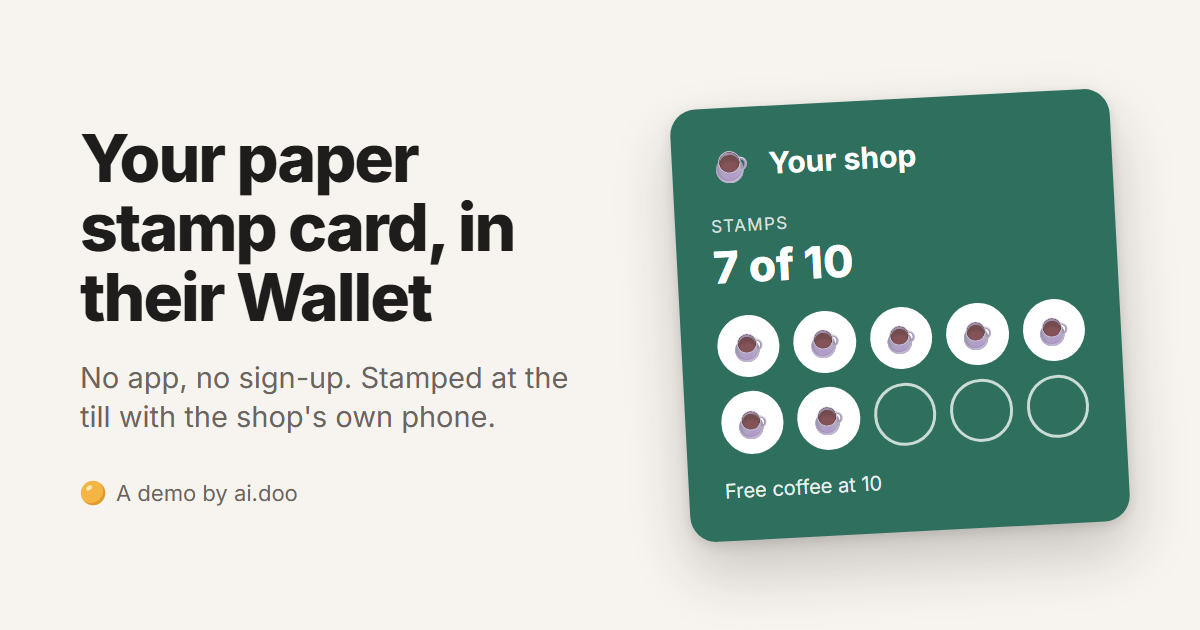
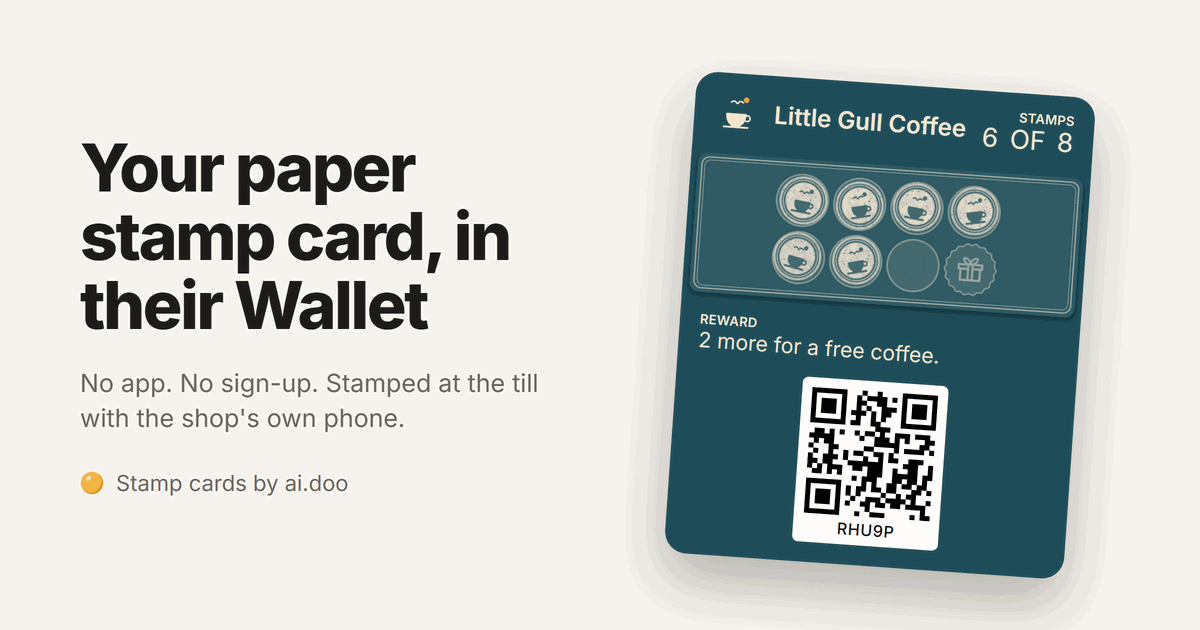
/stamps/: the share card and the homepage band show the printed pass
One internal page, internal/og-card/stamps.html, draws Little Gull's pass at
6 of 8 with printed.js. Its screenshots are the new stamps/og.png (the whole
pass, "Stamp cards by ai.doo", no demo line; ?v=2 so shares refetch it) and
images/stamps-pass.webp, which takes the place of the band's CSS dots. The
band's words don't change. Tests pin the band's image and the card's size.

diff --git a/internal/og-card/stamps.html b/internal/og-card/stamps.html
@@ -1,0 +1,96 @@
+<!doctype html>
+<!-- The source of /stamps/og.png, the 1200x630 card shown when a link to /stamps/ is shared, and
+     of images/stamps-pass.webp, the pass on the homepage's stamp card band. Link previews run no
+     script, so it is the same card for every shop: Little Gull Coffee at 6 of 8, the pass the
+     plain /stamps/ page shows (printed.js draws the strip, as on the page and the live pass).
+     To redraw them: serve the repo root and screenshot, at device scale 2,
+       this page at 1200x630, scaled to 1200x630 and reduced to a 256-colour PNG (under 300KB,
+         or WhatsApp drops the preview), as stamps/og.png;
+       this page's #pass at 440x520 on a clear background (no QR: the band is about the stamps), cropped to the pass and scaled to 560
+       wide, as images/stamps-pass.webp (quality 88).
+     Bump ?v= on the og:image and the band's img so shares and browsers refetch them. -->
+<meta charset="utf-8"><title>Stamps share card</title>
+<style>
+@font-face{font-family:Inter;src:url(../../fonts/inter-latin.woff2);font-weight:100 900}
+*{box-sizing:border-box}
+html,body{margin:0;width:1200px;height:630px;overflow:hidden;background:#f7f4ef;color:#1f1d1b;font-family:Inter,sans-serif}
+.card{position:relative;width:1200px;height:630px;padding:0 0 0 80px;display:flex;flex-direction:column;justify-content:center}
+h1{margin:0;width:520px;font:800 66px/1.04 Inter;letter-spacing:-.035em}
+p{margin:26px 0 0;width:500px;font-size:25px;line-height:1.4;color:#6b655e}
+.by{margin-top:34px;font-size:22px;color:#6b655e;display:flex;align-items:center;gap:12px}
+.by i{width:24px;height:24px;background:url(../../favicon.svg) center/contain no-repeat}
+.hold{position:absolute;left:680px;top:84px;transform:rotate(4deg)}
+
+/* The pass, as /stamps/ lays it out, at 400 wide */
+.pass{width:400px;background:#1f4e5a;color:#f3e6cf;border-radius:22px;padding:16px 0 20px;box-shadow:0 26px 56px rgba(31,29,27,.3)}
+.top{display:flex;align-items:center;gap:14px;padding:0 20px 12px}
+.mark{width:46px;height:46px;flex:none}
+.mark img{width:100%;height:100%;display:block;border-radius:50%}
+.top b{flex:1;font-size:24px;font-weight:600;line-height:1.15}
+.count{text-align:right;line-height:1.1}
+small{display:block;font-size:13px;font-weight:600;letter-spacing:.02em;text-transform:uppercase}
+.count span{font-size:26px;text-transform:uppercase;word-spacing:.18em}
+.strip{display:block;width:400px;height:153.6px}
+.field{padding:12px 20px 0}
+.field span{font-size:21px;line-height:1.25}
+.code{background:#fff;color:#111;border-radius:6px;padding:10px 10px 6px;margin:16px auto 0;width:146px;text-align:center;font:500 16px/1.2 Inter;letter-spacing:.04em}
+.code svg{width:126px;height:126px;display:block;margin:0 auto 4px}
+
+/* #pass: the pass alone, for the homepage band */
+html.solo,.solo body{width:440px;height:520px;background:transparent}
+.solo .card>:not(.hold){display:none}
+.solo .card{width:440px;height:520px;padding:0}
+.solo .hold{left:20px;top:8px;transform:none}
+.solo .pass{box-shadow:none}
+.solo .code{display:none}
+</style>
+<div class="card">
+  <h1>Your paper stamp card, in their Wallet</h1>
+  <p>No app. No sign-up. Stamped at the till with the shop's own phone.</p>
+  <div class="by"><i></i>Stamp cards by ai.doo</div>
+  <div class="hold">
+    <div class="pass">
+      <div class="top"><span class="mark"><img id="logo" src="../../stamps/little-gull.png" alt=""></span><b>Little Gull Coffee</b>
+        <div class="count"><small>Stamps</small><span>6 of 8</span></div></div>
+      <canvas class="strip" id="strip" width="750" height="288"></canvas>
+      <div class="field"><small>Reward</small><span>2 more for a free coffee.</span></div>
+      <div class="code"><svg id="qr" viewBox="0 0 25 25"></svg>RHU9P</div>
+    </div>
+  </div>
+</div>
+<script src="../../stamps/printed.js"></script>
+<script>
+  if (location.hash === "#pass") document.documentElement.className = "solo";
+  // The same made-up QR as the page's (stamps/index.html's drawQr)
+  (function (svg, seed) {
+    var n = 25, s = 0, cells = [];
+    for (var i = 0; i < seed.length; i++) s = (s * 31 + seed.charCodeAt(i)) % 233280;
+    var rnd = function () { return (s = (s * 9301 + 49297) % 233280) / 233280; };
+    var finder = function (x, y) {
+      return [[0, 0], [n - 7, 0], [0, n - 7]].some(function (o) {
+        return x >= o[0] - 1 && x <= o[0] + 7 && y >= o[1] - 1 && y <= o[1] + 7;
+      });
+    };
+    for (var y = 0; y < n; y++) for (var x = 0; x < n; x++)
+      if (!finder(x, y) && rnd() > 0.52) cells.push("M" + x + " " + y + "h1v1h-1z");
+    [[0, 0], [n - 7, 0], [0, n - 7]].forEach(function (o) {
+      cells.push("M" + o[0] + " " + o[1] + "h7v7h-7zM" + (o[0] + 1) + " " + (o[1] + 1) + "v5h5v-5z" +
+        "M" + (o[0] + 2) + " " + (o[1] + 2) + "h3v3h-3z");
+    });
+    svg.innerHTML = '<rect width="25" height="25" fill="#fff"/><path fill="#000" fill-rule="evenodd" d="' + cells.join("") + '"/>';
+  })(document.getElementById("qr"), "RHU9P");
+
+  var logo = document.getElementById("logo");
+  function draw() {
+    var W = PrintedCard.STRIP_WIDTH, H = PrintedCard.STRIP_HEIGHT;
+    var out = PrintedCard.render({ bg: "#1f4e5a", fg: "#f3e6cf", required: 8, count: 6, logoKey: "gull",
+      logo: function (n) {
+        var c = document.createElement("canvas"), g = c.getContext("2d");
+        c.width = c.height = n; g.drawImage(logo, 0, 0, n, n);
+        return g.getImageData(0, 0, n, n).data;
+      } }, W, H);
+    document.getElementById("strip").getContext("2d").putImageData(new ImageData(out.data, W, H), 0, 0);
+    document.body.dataset.ready = "1";
+  }
+  if (logo.complete) draw(); else logo.onload = draw;
+</script>

diff --git a/index.html b/index.html
@@ -170,12 +170,8 @@
     .processSteps .step p{font-size:14.5px}
     /* The stamp card: a quiet band in the steps' colour, so the promo band stays the bright one (D-040) */
     .stampBand{display:grid;grid-template-columns:1.3fr auto;gap:40px;align-items:center;padding:56px;border-radius:40px;background:var(--card)}
-    .stampCard{width:280px;padding:22px 22px 20px;border-radius:18px;background:#1f4a3f;color:#fff}
-    .stampCard b{display:block;margin-bottom:12px;font-size:15px;font-weight:800}
-    .stampDots{display:grid;grid-template-columns:repeat(5,1fr);gap:9px}
-    .stampDots i{aspect-ratio:1;border-radius:50%;border:2px solid #7fd1b0;background:#7fd1b0}
-    .stampDots i.off{border-color:rgba(255,255,255,.3);background:none}
-    .stampCard small{display:block;margin-top:12px;font-size:12.5px;opacity:.85}
+    /* the plain /stamps/ page's pass, drawn by printed.js (internal/og-card/stamps.html) */
+    .stampCard{display:block;width:300px;height:auto}
     .alsoLine{padding:0 0 56px}
     .alsoLine p{margin:0;max-width:72ch;color:var(--muted);font-size:14px;line-height:1.7}
     .alsoLine a{color:var(--suite);text-decoration:underline;text-decoration-thickness:1px;text-underline-offset:3px}
@@ -186,7 +182,7 @@
       .workBody{padding:20px 22px 22px}
       .promoBand{grid-template-columns:1fr;gap:20px;padding:32px 24px;border-radius:28px}
       .stampBand{grid-template-columns:1fr;gap:24px;padding:32px 24px;border-radius:28px}
-      .stampCard{width:100%;max-width:280px}
+      .stampCard{width:100%;max-width:300px}
       .processSteps{grid-template-columns:1fr;gap:12px}
       .processSteps .step{padding:20px 22px 22px;border-left:0}
     }
@@ -450,11 +446,7 @@
           <a class="btn primary" href="stamps/" data-umami-event="stamps-demo-home">See it work</a>
         </div>
       </div>
-      <div class="stampCard" aria-hidden="true">
-        <b>Your shop</b>
-        <div class="stampDots"><i></i><i></i><i></i><i></i><i></i><i></i><i></i><i class="off"></i><i class="off"></i><i class="off"></i></div>
-        <small>7 of 10. 3 more for a free coffee.</small>
-      </div>
+      <img class="stampCard" src="images/stamps-pass.webp?v=1" width="560" height="422" alt="">
     </div>
   </section>
 

diff --git a/stamps/index.html b/stamps/index.html
@@ -14,11 +14,11 @@
   <meta property="og:description" content="No app, no sign-up. Stamped at the till with the shop's own phone, and set up in about a minute.">
   <meta property="og:url" content="https://aidoo.biz/stamps/">
   <meta property="og:site_name" content="ai.doo">
-  <meta property="og:image" content="https://aidoo.biz/stamps/og.png">
+  <meta property="og:image" content="https://aidoo.biz/stamps/og.png?v=2">
   <meta property="og:image:width" content="1200">
   <meta property="og:image:height" content="630">
   <meta name="twitter:card" content="summary_large_image">
-  <meta name="twitter:image" content="https://aidoo.biz/stamps/og.png">
+  <meta name="twitter:image" content="https://aidoo.biz/stamps/og.png?v=2">
   <link rel="icon" href="../favicon.svg" type="image/svg+xml" sizes="any">
   <style>
     /* The stamp card, playing itself in a loop on one phone: sign, page, Wallet, the staff

diff --git a/tests/test_stamps_demo.py b/tests/test_stamps_demo.py
@@ -227,6 +227,8 @@ def test_deploy_serves_the_demo():
         "stamps/card.js",
         "stamps/printed.js",
         "stamps/little-gull.png",
+        "stamps/og.png",
+        "images/stamps-pass.webp",
     ):
         assert rel in served, rel
 
@@ -239,6 +241,9 @@ def test_the_homepage_offers_the_stamp_card_in_a_quiet_band():
     assert html.index('id="process"') < start < html.index('id="also"')
     assert 'href="stamps/"' in band and "data-tint=" in band
     assert "data-umami-event=" in band
+    # the plain page's own pass, drawn by printed.js (internal/og-card/stamps.html), not a sketch of one
+    assert 'src="images/stamps-pass.webp' in band and 'alt=""' in band
+    assert "stampDots" not in html
     # the demo plays itself; the Play button offers only games
     assert "data-play" not in band
     text = re.sub(r"<[^>]+>", " ", band)
@@ -248,3 +253,17 @@ def test_the_homepage_offers_the_stamp_card_in_a_quiet_band():
         assert word not in text, word
     # the page's one bright band stays the promo game's: no gradient here
     assert "gradient" not in band
+
+
+def test_the_share_card_fits_a_link_preview():
+    # 1200x630, and under WhatsApp's ~300KB or it shows the link bare; versioned so shares refetch it
+    png = (REPO_ROOT / "stamps" / "og.png").read_bytes()
+    assert png[:4] == bytes([0x89]) + b"PNG"
+    assert (int.from_bytes(png[16:20], "big"), int.from_bytes(png[20:24], "big")) == (
+        1200,
+        630,
+    )
+    assert len(png) < 300_000
+    assert 'og:image" content="https://aidoo.biz/stamps/og.png?v=' in _text(
+        "stamps/index.html"
+    )

diff --git a/docs/CURRENT_SPRINT.md b/docs/CURRENT_SPRINT.md
@@ -46,7 +46,7 @@ Held until then: new titles, the rest of the site rework (P2.1b), and suite road
 
 ### 2026-11-02
 
-- **`/stamps/` new look, in progress (`item/stamps-printed-look`, worktree `C:\dev\worktrees\ai.doo-stamps-look`; owner, in a plain chat; no roadmap row).** Done: `stamps/printed.js`, a canvas port of loyalty's `render.py` (same constants, poses and layers: dark stock, grain, double rule, printed boxes, the gift badge, rubber stamps with the logo's bare highlight, foil and glow at full; API `PrintedCard.render({bg, fg, required, count, logo(n), logoKey, wordmark}, width)`, 150 to 270ms per 1032x812, so cache by count), matched by eye to loyalty's `docs/design/0004-printed-card/build_demo_0_4_10.png`. The price under the pilot line (D-037; D-040's update), gates PASS. **Owner's call:** the plain page shows a Little Gull Coffee pass like the real one (`C:\tmp\stamps-footage\pass-6of8.webp`; art in `C:\tmp\little-gull`, ground `#1F4E5A`, text `#F3E6CF`, 8 stamps, "A free coffee"): logo and name top left, "STAMPS n OF 8" top right, the printed strip (two rows of four, gift last), a REWARD line ("2 more for a free coffee."), the QR with its code. A shop's `?shop=` link keeps its own branding. Done since: (1) printed.js wired into `index.html` at Apple's strip (750x288, no wordmark header, as `render.header`; `render(o, w, h)` and `lit: false`), each new stamp landing over the old card, the lit card fading in after the last; the plain page is Little Gull (logo `stamps/little-gull.png`, 8 stamps), a shop's link stamps its icon as a solid shape; (3) `fg` in `card.js` (3:1 against the card or ink; the plain page's cream); (2) the staff phone as the live scanner: the camera (aim corners, Type code, Shop), the +N sheet, the green done screen, "Free item given" / "0 of N now"; visits 1, 2, 4 (then 1 for 8 stamps), `demoBeats()` in step; (4) cut 6's words: the captions ("Customers scan the sign by your till", "One tap and the card's in their Wallet", "Staff scan it with the shop's own phone", "The stamp lands on their phone"; two lines kept free under 440px so Pause doesn't jump), "Setting up your shop is simple: name it, add your logo, print the QR. About a minute." and "We're a new studio on the Isle of Man, looking for our first few shops." at the end; no demo framing (title "Stamp cards | ai.doo", footer "Stamp cards by ai.doo.", a test keeps "demo" out of the page's words); the lock-screen note kept, in the live Apple pass's own words (`changeMessage` "%@ stamps": "3 of 8 stamps", "0 of 8 stamps" after the free item), since Apple's push is followed by a pass fetch (loyalty P1.8) and Google's note arrived on the OnePlus; the iPhone's buzz itself is still unfilmed. Still to do: (5) the homepage band's drawn card and `stamps/og.png` in the new look; (6) a draft PR with before/after shots at 0, part and full. Gelatory sees the page before anything posts, and it stays at exactly `aidoo.biz/stamps`.
+- **`/stamps/` new look, in progress (`item/stamps-printed-look`, worktree `C:\dev\worktrees\ai.doo-stamps-look`; owner, in a plain chat; no roadmap row).** Done: `stamps/printed.js`, a canvas port of loyalty's `render.py` (same constants, poses and layers: dark stock, grain, double rule, printed boxes, the gift badge, rubber stamps with the logo's bare highlight, foil and glow at full; API `PrintedCard.render({bg, fg, required, count, logo(n), logoKey, wordmark}, width)`, 150 to 270ms per 1032x812, so cache by count), matched by eye to loyalty's `docs/design/0004-printed-card/build_demo_0_4_10.png`. The price under the pilot line (D-037; D-040's update), gates PASS. **Owner's call:** the plain page shows a Little Gull Coffee pass like the real one (`C:\tmp\stamps-footage\pass-6of8.webp`; art in `C:\tmp\little-gull`, ground `#1F4E5A`, text `#F3E6CF`, 8 stamps, "A free coffee"): logo and name top left, "STAMPS n OF 8" top right, the printed strip (two rows of four, gift last), a REWARD line ("2 more for a free coffee."), the QR with its code. A shop's `?shop=` link keeps its own branding. Done since: (1) printed.js wired into `index.html` at Apple's strip (750x288, no wordmark header, as `render.header`; `render(o, w, h)` and `lit: false`), each new stamp landing over the old card, the lit card fading in after the last; the plain page is Little Gull (logo `stamps/little-gull.png`, 8 stamps), a shop's link stamps its icon as a solid shape; (3) `fg` in `card.js` (3:1 against the card or ink; the plain page's cream); (2) the staff phone as the live scanner: the camera (aim corners, Type code, Shop), the +N sheet, the green done screen, "Free item given" / "0 of N now"; visits 1, 2, 4 (then 1 for 8 stamps), `demoBeats()` in step; (4) cut 6's words: the captions ("Customers scan the sign by your till", "One tap and the card's in their Wallet", "Staff scan it with the shop's own phone", "The stamp lands on their phone"; two lines kept free under 440px so Pause doesn't jump), "Setting up your shop is simple: name it, add your logo, print the QR. About a minute." and "We're a new studio on the Isle of Man, looking for our first few shops." at the end; no demo framing (title "Stamp cards | ai.doo", footer "Stamp cards by ai.doo.", a test keeps "demo" out of the page's words); the lock-screen note kept, in the live Apple pass's own words (`changeMessage` "%@ stamps": "3 of 8 stamps", "0 of 8 stamps" after the free item), since Apple's push is followed by a pass fetch (loyalty P1.8) and Google's note arrived on the OnePlus; the iPhone's buzz itself is still unfilmed; (5) one source, `internal/og-card/stamps.html` (printed.js draws Little Gull at 6 of 8, as the video's end card), for the share card (`stamps/og.png?v=2`: \"Your paper stamp card, in their Wallet\", \"Stamp cards by ai.doo\", the whole pass with its QR; 57KB, 256 colours by octree, since median cut washed the ball beige) and the homepage band's card (`images/stamps-pass.webp`, 560x422, the pass without its QR, at 300 wide; the CSS dots are gone; the band's words unchanged, still no wallet or price named). Still to do: (6) a draft PR with before/after shots at 0, part and full. Gelatory sees the page before anything posts, and it stays at exactly `aidoo.biz/stamps`.
 
 - **P2.1j built (`item/P2.1j-share-card`, `/next P2.1j`).** `/stamps/` already had a card, so only `/play/pour/` needed one. Tags on the page (no venue or drink words, which the page may not carry) and `play/pour/og.png`: "A little game for your customers while they wait", the four venues fanned as phones, from stills of each start screen mid-pour (`internal/og-card/pour.html`; the game's demo pour doesn't run in an iframe under a headless browser, so stills). 93KB. Red first (`1 failed`), then gates all PASS (2 cycles, format); Codex round 1: no findings. Merged by the owner (#121). **Next:** the owner pastes aidoo.biz/play/pour/ into Messenger and sees the card.
 - **P2.1k, the stamp card video: cut 2 made, cut 3 agreed (owner, in a plain chat).** Made-up shop Little Gull Coffee (`little-gull` on the live server; art and form answers in `C:\tmp\little-gull`). Footage in `C:\tmp\stamps-footage`: the iPhone recording is full size; the three Android clips are WhatsApp copies (392x850), originals to come. The shop's setup timed at 1:02 in one continuous recording, so the copy says "about a minute". Cut 2 (`C:\tmp\stamps-cut\stamps-cut2-9x16.mp4`, 26s) is the older promo videos' look and words over the footage, made by `C:\tmp\stamps-cut\tools\cut2.py` (PyAV + Pillow, no ffmpeg; the studio fonts as TTF beside it; the Google Photos picker is blurred, 30.8-37.4s and 43.6-48.6s of the setup clip). The owner's fixes for cut 3: show the whole Apple pass and paint the other shops' red edges black, not crop them (the iPhone's pass is steady 22.15-23.4s); crop the Android tops to about 11% (the address bar shows); the setup as three held stills with the clock at their real times ("1. Name it" about 0:10, "2. Add your logo" as the preview turns teal about 0:50, "3. Print the QR" 1:02), not 16x; the end card's pass whole and smaller (about 520 wide). Still to film: the lock screen buzz (its sub-line comes back then) and the paper cards. Then the 16:9 cut, `posts.md`, and `/stamps/` to match.
